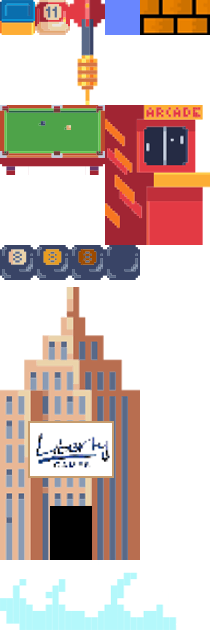
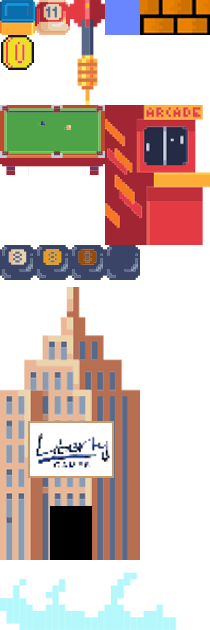
feat: extract coins from 8-balls

Changed region(s): [[0.0, 0.0302, 0.1714, 0.1206]]

diff --git a/public/Spritesheet.js b/public/Spritesheet.js
@@ -16,6 +16,11 @@ class Spritesheet {
       buff.width = width
       buff.height = height
 
+      if (name === `coin`) {
+        buffCtx.scale(0.75, 0.75)
+        buffCtx.translate(width * 0.75 * (1 - 0.75), height * 0.75 * (1 - 0.75))
+      }
+
       if (isFlipped) {
         buffCtx.scale(-1, 1)
         buffCtx.translate(-width, 0)
@@ -44,8 +49,8 @@ class Spritesheet {
   }
 
   draw(name, ctx, x, y, isFlipped = false) {
-    const buffer = this.tileset.get(name)[isFlipped ? 0 : 1]
-    ctx.drawImage(buffer, x, y)
+    const buff = this.tileset.get(name)[isFlipped ? 0 : 1]
+    ctx.drawImage(buff, x, y)
   }
 
   drawTile(name, ctx, x, y) {
@@ -53,45 +58,54 @@ class Spritesheet {
     ctx.drawImage(buff, x * this.width, y * this.height)
   }
 
-  drawShards(ctx, buff, size, idxX, idxY, delta) {
-    const width = this.width / size
-    const height = this.height / size
+  drawAnimation(name, ctx, x, y, distance) {
+    const animation = this.animations.get(name)
+    this.drawTile(animation(distance), ctx, x, y)
+  }
+
+  extractCoin(name, ctx, idxX, idxY, delta) {
+    const tile = this.tileset.get(name)[1]
+    const coin = this.tileset.get(`coin`)[1]
+    const posX = idxX * this.width
+    const posY = idxY * this.height
+    delta *= 35
+
+    ctx.drawImage(tile, posX, Math.min(posY, posY + delta**2 - delta * 8))
+    if ((posY - this.height + delta**2 - delta * 20) < posY - this.height) {
+      ctx.drawImage(coin, posX, Math.min(posY - this.height, posY - this.height + delta**2 - delta * 20))
+    }
+  }
+
+  drawShards(name, ctx, size, idxX, idxY, delta) {
+    const buff = this.tileset.get(name)[1]
+    const shardW = this.width / size
+    const shardH = this.height / size
     const mult = 2.5
 
     for (let sc = 0; sc < size; sc += 1) {
       const isLeftHalf = sc < size / 2
       // TODO: Find multiplier for c to properly offset columns
-      const toX = (idxX + (isLeftHalf ? -delta : delta)) * this.width
+      const posX = (idxX + (isLeftHalf ? -delta : delta)) * this.width
 
       for (let sr = 0; sr < size; sr += 1) {
-        const toY = (idxY + (delta**2 - delta * (mult - 0.5 * sr))) * this.height
-        const sx = width * sc
-        const sy = height * sr
-        const dx = toX + width * sc
-        const dy = toY + height * sr
+        const posY = (idxY + (delta**2 - delta * (mult - 0.5 * sr))) * this.height
+        const sx = shardW * sc
+        const sy = shardH * sr
+        const dx = posX + shardW * sc
+        const dy = posY + shardH * sr
 
         // TODO: Find a way to rotate individual shards
         ctx.drawImage(
           buff,
           sx, sy,
           // sW, sH
-          width, height,
+          shardW, shardH,
           dx, dy,
           // dW, dH
-          width, height
+          shardW, shardH
         )
       }
     }
-  }
-
-  shredTile(name, ctx, idxX, idxY, delta) {
-    const buff = this.tileset.get(name)[1]
-    this.drawShards(ctx, buff, 2, idxX, idxY, delta)
-  }
-
-  drawAnimation(name, ctx, x, y, distance) {
-    const animation = this.animations.get(name)
-    this.drawTile(animation(distance), ctx, x, y)
   }
 }
 

diff --git a/public/layers.js b/public/layers.js
@@ -23,9 +23,27 @@ const createBackgroundLayer = (lvl, tiles, sprites) => {
           else {
             if (tile.destroyable && tile.remove) {
               const delta = lvl.totalTime - tile.touchedAt / 1000
-              delta < 2
-                ? sprites.shredTile(tile.name, ctx, x - startIdx, y, delta * 5)
-                : tiles.removeOne(x, y)
+              if (delta < 2) {
+                sprites.drawShards(tile.name, ctx, 2, x - startIdx, y, delta * 5)
+              }
+              else {
+                tiles.removeOne(x, y)
+              }
+            }
+            else if (tile.withCoin && tile.getCoin) {
+              const delta = lvl.totalTime - tile.touchedAt / 1000
+
+              if (delta < 2) {
+                sprites.extractCoin(tile.name, ctx, x - startIdx, y, delta)
+              }
+              else {
+                sprites.drawTile(tile.name, ctx, x - startIdx, y)
+                tiles.set(x, y, {
+                  ...tile,
+                  withCoin: false,
+                  getCoin: false,
+                })
+              }
             }
             else {
               sprites.drawTile(tile.name, ctx, x - startIdx, y)

diff --git a/public/TileCollider.js b/public/TileCollider.js
@@ -81,12 +81,30 @@ class TileCollider {
           if (match.tile.destroyable) {
             const x = this.tiles.toIndex(match.xLeft)
             const y = this.tiles.toIndex(match.yTop)
+
             interactionGrid.set(x, y, {
               ...match.tile,
               remove: true,
               touchedAt: performance.now()
             })
-            this.tiles.matrix.replaceOne(x, y, { name: `sky` })
+            this.tiles.matrix.set(x, y, { name: `sky` })
+          }
+
+          if (match.tile.withCoin) {
+            const { name } = match.tile
+            const x = this.tiles.toIndex(match.xLeft)
+            const y = this.tiles.toIndex(match.yTop)
+
+            interactionGrid.set(x, y, {
+              ...match.tile,
+              name: `${name}_off`,
+              getCoin: true,
+              touchedAt: performance.now(),
+            })
+            this.tiles.matrix.set(x, y, {
+              ...match.tile,
+              withCoin: false,
+            })
           }
         }
       }

diff --git a/public/loaders/level.js b/public/loaders/level.js
@@ -51,8 +51,8 @@ function createGrid(tiles, patterns) {
   const matrix = new Matrix()
 
   for (const { x, y, tile } of expandTiles(tiles, patterns)) {
-    const { name, type, destroyable } = tile
-    matrix.set(x, y, { name, type, destroyable })
+    const { ranges, ...attrs } = tile
+    matrix.set(x, y, { ...attrs })
   }
 
   return matrix
